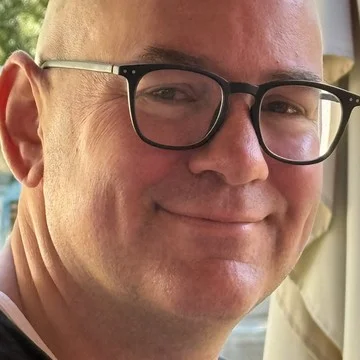
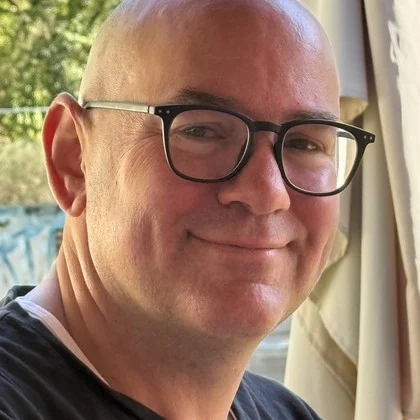
Support button: unified card (zoomed-out photo + blue label bar)

diff --git a/index.html b/index.html
@@ -923,13 +923,13 @@ document.addEventListener('click',e=>{
 </script>
 
 <style>
-.wa-fab{position:fixed;bottom:16px;left:16px;display:flex;flex-direction:column;align-items:center;gap:5px;text-decoration:none;z-index:850;-webkit-tap-highlight-color:transparent}
-.wa-fab .wa-face{width:64px;height:64px;border-radius:50%;object-fit:cover;object-position:center;border:3px solid #fff;box-shadow:0 6px 18px -5px rgba(0,0,0,.5);display:block;transition:transform .18s cubic-bezier(.22,.8,.22,1)}
-.wa-fab .wa-txt{font-size:12px;font-weight:800;color:#2D9CDB;background:#fff;padding:3px 10px;border-radius:999px;box-shadow:0 3px 10px -3px rgba(0,0,0,.3);white-space:nowrap;font-family:var(--font,sans-serif)}
-.wa-fab:hover .wa-face{transform:scale(1.07)}
-.wa-fab:active .wa-face{transform:scale(.96)}
-@media (prefers-reduced-motion:reduce){.wa-fab .wa-face{transition:none}}
+.wa-fab{position:fixed;bottom:16px;left:16px;width:88px;display:flex;flex-direction:column;border-radius:16px;overflow:hidden;background:#2D9CDB;box-shadow:0 8px 22px -6px rgba(0,0,0,.5);text-decoration:none;z-index:850;transition:transform .18s cubic-bezier(.22,.8,.22,1);-webkit-tap-highlight-color:transparent}
+.wa-fab .wa-face{width:100%;height:80px;object-fit:cover;object-position:center 38%;display:block}
+.wa-fab .wa-txt{background:#2D9CDB;color:#fff;font-size:11px;font-weight:800;text-align:center;padding:5px 4px 6px;line-height:1.2;font-family:var(--font,sans-serif)}
+.wa-fab:hover{transform:translateY(-2px) scale(1.04)}
+.wa-fab:active{transform:scale(.97)}
+@media (prefers-reduced-motion:reduce){.wa-fab{transition:none}}
 </style>
-<a class="wa-fab" href="https://wa.me/972542395140?text=%D7%94%D7%A8%D7%90%D7%9C%20%D7%AA%D7%9B%D7%95%D7%95%D7%9F%20%D7%90%D7%95%D7%AA%D7%A0%D7%95%20%D7%91%D7%A4%D7%A8%D7%95%D7%91%D7%90%D7%A0%D7%A1%20%F0%9F%A7%AD" target="_blank" rel="noopener" aria-label="בוט התמיכה — הראל"><img class="wa-face" src="images/harel.webp?v=4" alt="הראל" width="64" height="64"><span class="wa-txt">🤖 בוט התמיכה</span></a>
+<a class="wa-fab" href="https://wa.me/972542395140?text=%D7%94%D7%A8%D7%90%D7%9C%20%D7%AA%D7%9B%D7%95%D7%95%D7%9F%20%D7%90%D7%95%D7%AA%D7%A0%D7%95%20%D7%91%D7%A4%D7%A8%D7%95%D7%91%D7%90%D7%A0%D7%A1%20%F0%9F%A7%AD" target="_blank" rel="noopener" aria-label="בוט התמיכה — הראל"><img class="wa-face" src="images/harel.webp?v=5" alt="הראל" width="88" height="80"><span class="wa-txt">🤖 בוט התמיכה</span></a>
 </body>
 </html>